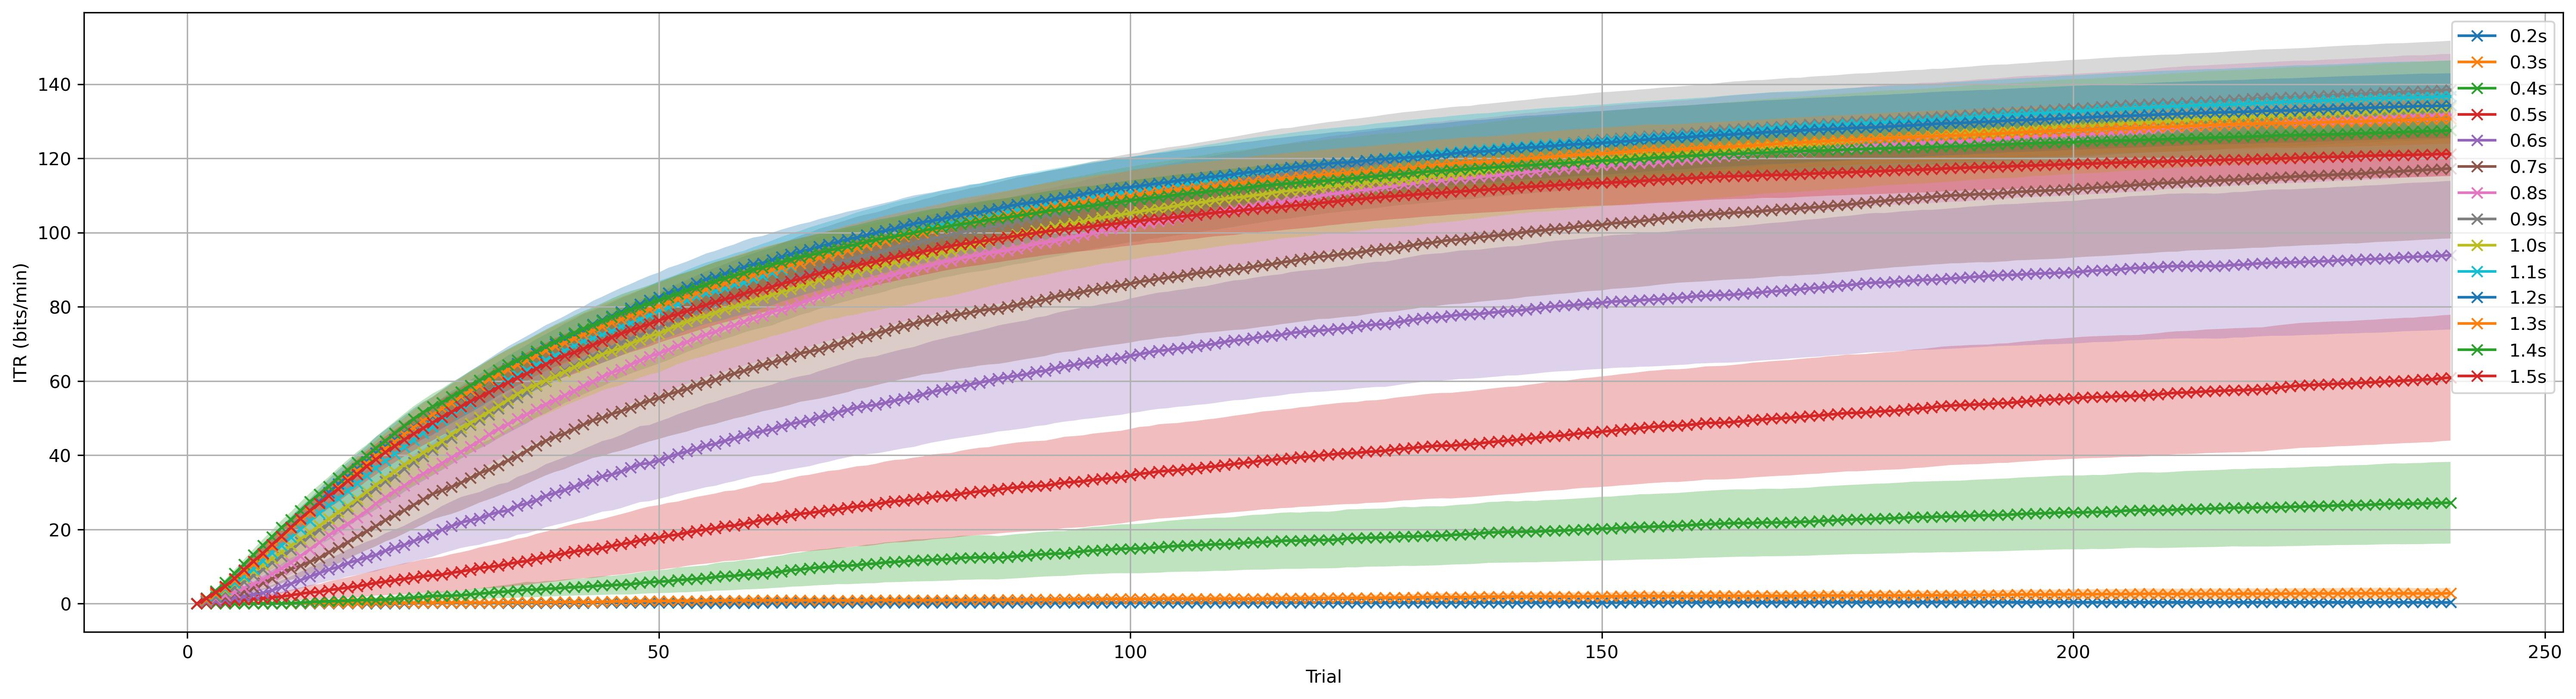
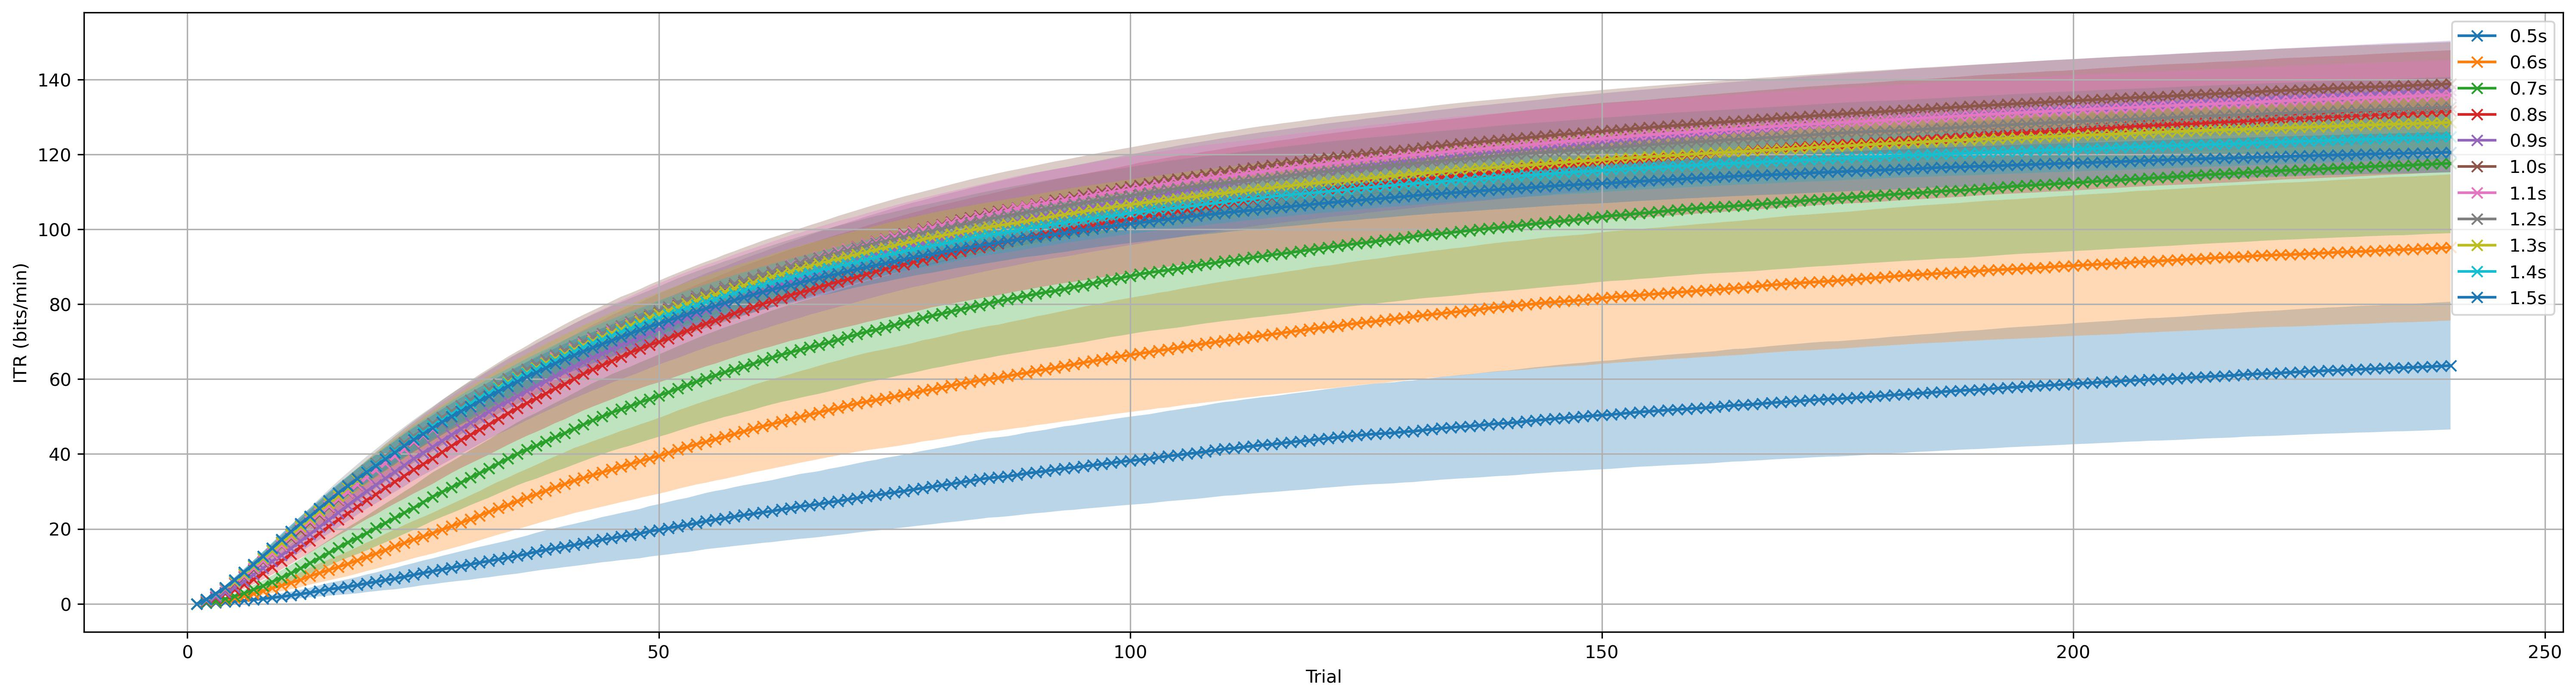
Update online simulation

diff --git a/demo/plot_performance_online.py b/demo/plot_performance_online.py
@@ -9,6 +9,7 @@ import numpy as np
 
 data_file_list = ['res/benchmarkdataset_res_online.npy']
 sub_title = ['benchmark']
+repeat_num = 5
 
 for dataset_idx, data_file in enumerate(data_file_list):
     data = loaddata(data_file, 'np')
@@ -21,11 +22,21 @@ for dataset_idx, data_file in enumerate(data_file_list):
     else:
         method_ID = data["method_ID"]
     method_ID = [name.strip() for name in method_ID]
+    if len(method_ID)==1:
+        acc_store = np.expand_dims(acc_store, 2)
+        itr_store = np.expand_dims(itr_store, 2)
 
     for method_idx, method_name in enumerate(method_ID):
         # Plot Performance of bar plots
-        acc_store_online = acc_store[:,:,method_idx,:,:] # (subject_num, signal_len_num, method_num, trial_num, sub_trial_num)
-        acc_store_online = np.mean(acc_store_online, 2)
+        subject_num, signal_len_num, method_num, trial_num = acc_store.shape
+        trial_each_repeat_num = int(np.floor(trial_num/repeat_num))
+        acc_store_online_tmp = None
+        for repeat_idx in range(repeat_num):
+            if acc_store_online_tmp is None:
+                acc_store_online_tmp = acc_store[:,:,method_idx,(repeat_idx*trial_each_repeat_num):((repeat_idx+1)*trial_each_repeat_num)]
+            else:
+                acc_store_online_tmp = acc_store_online_tmp + acc_store[:,:,method_idx,(repeat_idx*trial_each_repeat_num):((repeat_idx+1)*trial_each_repeat_num)]
+        acc_store_online = acc_store_online_tmp / repeat_num
         acc_store_online = np.transpose(acc_store_online, (1,0,2)) 
         x_value = [i+1 for i in range(acc_store_online.shape[2])]
         legend_label = [str(tw)+'s' for tw in tw_seq]
@@ -40,8 +51,15 @@ for dataset_idx, data_file in enumerate(data_file_list):
         #                                 figsize=[6.4*3, 4.8])
         # fig.savefig('res/{:s}_{:s}_acc_bar.jpg'.format(sub_title[dataset_idx],method_name), bbox_inches='tight', dpi=300)
 
-        itr_store_online = itr_store[:,:,method_idx,:,:] # (subject_num, signal_len_num, method_num, trial_num, sub_trial_num)
-        itr_store_online = np.mean(itr_store_online, 2)
+        subject_num, signal_len_num, method_num, trial_num = itr_store.shape
+        trial_each_repeat_num = int(np.floor(trial_num/repeat_num))
+        itr_store_online_tmp = None
+        for repeat_idx in range(repeat_num):
+            if itr_store_online_tmp is None:
+                itr_store_online_tmp = itr_store[:,:,method_idx,(repeat_idx*trial_each_repeat_num):((repeat_idx+1)*trial_each_repeat_num)]
+            else:
+                itr_store_online_tmp = itr_store_online_tmp + itr_store[:,:,method_idx,(repeat_idx*trial_each_repeat_num):((repeat_idx+1)*trial_each_repeat_num)]
+        itr_store_online = itr_store_online_tmp / repeat_num
         itr_store_online = np.transpose(itr_store_online, (1,0,2)) 
         # fig, _ = bar_plot_with_errorbar(itr_store_online,
         #                                 x_label = 'Trial',

diff --git a/demo/benchmarkdataset_online.py b/demo/benchmarkdataset_online.py
@@ -24,7 +24,7 @@ dataset_container = [
 
 
 # Prepare train and test trials
-tw_seq = [i/100 for i in range(20,150+5,10)]
+tw_seq = [i/100 for i in range(50,150+10,10)]
 trial_container = gen_trials_onedataset_individual_online(dataset_idx = 0,
                                                              tw_seq = tw_seq,
                                                              dataset_container = dataset_container,
@@ -66,7 +66,7 @@ confusion_matrix = cal_confusionmatrix_onedataset_individual_online(evaluator = 
 # Save results
 data = {"acc_store": acc_store,
         "itr_store": itr_store,
-        "confusion_matrix": confusion_matrix,
+        # "confusion_matrix": confusion_matrix,
         "tw_seq":tw_seq,
         "method_ID": [model.ID for model in model_container]}
 data_file = 'res/benchmarkdataset_res_online.npy'
